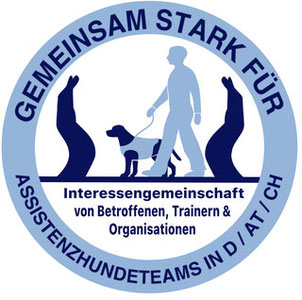
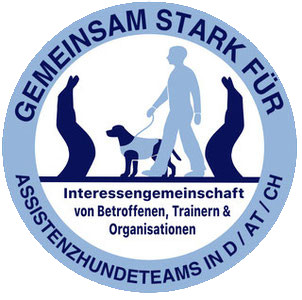
Release 1.0    :)

diff --git a/layouts/partials/blog-sidebar.html b/layouts/partials/blog-sidebar.html
@@ -26,15 +26,20 @@
     Ständige Weiterbildung ist für mich eine Selbstverständlichkeit.
     <br>
     <br>
-    <b>Amelie Schulz<br>Hundeschule Herz-AS<br>
-    Telefon: 05108-876 8 567
+    <b>Hundeschule Herz-AS</b><br>
+    Mail: <b>info@hundeschule-herz-as.com</b>   <br>
+    Telefon: <b>0177-9273213</b>
     <br>
-    Mail: hundeschule.herz.as@gmail.com
+    vom Veterinäramt nach §11 überprüft.
+
     <br>
     </b>
   </p>
-  <img src="/images/banner_vertical.png" class="sidebar-img" style="display: block;margin-left: auto;margin-right: auto;">
+
   <br>
   <br>
-  <img src="/images/assistenzhundeteams.jpg" class="sidebar-img" style="display: block;margin-left: auto;margin-right: auto;">
+  <img src="/images/assistenzhundeteams.png" class="sidebar-img" style="display: block;margin-left: auto;margin-right: auto;">
+  <br>
+  <br>
+  <img src="/images/zertifikat_hundetrainerin.png" class="sidebar-img" style="display: block;margin-left: auto;margin-right: auto;">
 </div>

diff --git a/assets/scss/templates/_assistenzhunde.scss b/assets/scss/templates/_assistenzhunde.scss
@@ -48,20 +48,33 @@
 }
 
 
+
 .linkgrid {
   display: grid;
   grid-template-columns: repeat(3, 1fr);
   column-gap: 10px;
   row-gap: 15px;
 }
+
+@media screen and (max-width: 700px) {
+  .linkgrid {
+    grid-template-columns: repeat(1, 1fr);
+  }
+}
+
 .griditem{
   min-height: 10vw;
   max-height: 15vw;
-  box-shadow: 0 0 0px #888;
   display:flex;
   flex-direction: column;
   justify-content: center;
 
+}
+@media screen and (max-width: 700px) {
+  .griditem {
+    min-height: 40vw;
+    max-height: 45vw;
+  }
 }
 
 .griditem a{

diff --git a/content/datenschutz/_index.md b/content/datenschutz/_index.md
@@ -4,19 +4,37 @@ draft: false
 ---
 
 
+<h1>Datenschutz&shy;erkl&auml;rung</h1>
+<h2>1. Datenschutz auf einen Blick</h2>
+<h3>Allgemeine Hinweise</h3> <p>Die folgenden Hinweise geben einen einfachen &Uuml;berblick dar&uuml;ber, was mit Ihren personenbezogenen Daten passiert, wenn Sie diese Website besuchen. Personenbezogene Daten sind alle Daten, mit denen Sie pers&ouml;nlich identifiziert werden k&ouml;nnen. Ausf&uuml;hrliche Informationen zum Thema Datenschutz entnehmen Sie unserer unter diesem Text aufgef&uuml;hrten Datenschutzerkl&auml;rung.</p>
+<h3>Datenerfassung auf dieser Website</h3> <h4>Wer ist verantwortlich f&uuml;r die Datenerfassung auf dieser Website?</h4> <p>Die Datenverarbeitung auf dieser Website erfolgt durch den Websitebetreiber. Dessen Kontaktdaten k&ouml;nnen Sie dem Abschnitt &bdquo;Hinweis zur Verantwortlichen Stelle&ldquo; in dieser Datenschutzerkl&auml;rung entnehmen.</p> <h4>Wie erfassen wir Ihre Daten?</h4> <p>Ihre Daten werden zum einen dadurch erhoben, dass Sie uns diese mitteilen. Hierbei kann es sich z.&nbsp;B. um Daten handeln, die Sie in ein Kontaktformular eingeben.</p> <p>Andere Daten werden automatisch oder nach Ihrer Einwilligung beim Besuch der Website durch unsere IT-Systeme erfasst. Das sind vor allem technische Daten (z.&nbsp;B. Internetbrowser, Betriebssystem oder Uhrzeit des Seitenaufrufs). Die Erfassung dieser Daten erfolgt automatisch, sobald Sie diese Website betreten.</p> <h4>Wof&uuml;r nutzen wir Ihre Daten?</h4> <p>Ein Teil der Daten wird erhoben, um eine fehlerfreie Bereitstellung der Website zu gew&auml;hrleisten. Andere Daten k&ouml;nnen zur Analyse Ihres Nutzerverhaltens verwendet werden.</p> <h4>Welche Rechte haben Sie bez&uuml;glich Ihrer Daten?</h4> <p>Sie haben jederzeit das Recht, unentgeltlich Auskunft &uuml;ber Herkunft, Empf&auml;nger und Zweck Ihrer gespeicherten personenbezogenen Daten zu erhalten. Sie haben au&szlig;erdem ein Recht, die Berichtigung oder L&ouml;schung dieser Daten zu verlangen. Wenn Sie eine Einwilligung zur Datenverarbeitung erteilt haben, k&ouml;nnen Sie diese Einwilligung jederzeit f&uuml;r die Zukunft widerrufen. Au&szlig;erdem haben Sie das Recht, unter bestimmten Umst&auml;nden die Einschr&auml;nkung der Verarbeitung Ihrer personenbezogenen Daten zu verlangen. Des Weiteren steht Ihnen ein Beschwerderecht bei der zust&auml;ndigen Aufsichtsbeh&ouml;rde zu.</p> <p>Hierzu sowie zu weiteren Fragen zum Thema Datenschutz k&ouml;nnen Sie sich jederzeit an uns wenden.</p>
+<h3>Analyse-Tools und Tools von Dritt&shy;anbietern</h3> <p>Beim Besuch dieser Website kann Ihr Surf-Verhalten statistisch ausgewertet werden. Das geschieht vor allem mit sogenannten Analyseprogrammen.</p> <p>Detaillierte Informationen zu diesen Analyseprogrammen finden Sie in der folgenden Datenschutzerkl&auml;rung.</p>
+<h2>2. Allgemeine Hinweise und Pflicht&shy;informationen</h2>
+<h3>Datenschutz</h3> <p>Die Betreiber dieser Seiten nehmen den Schutz Ihrer pers&ouml;nlichen Daten sehr ernst. Wir behandeln Ihre personenbezogenen Daten vertraulich und entsprechend den gesetzlichen Datenschutzvorschriften sowie dieser Datenschutzerkl&auml;rung.</p> <p>Wenn Sie diese Website benutzen, werden verschiedene personenbezogene Daten erhoben. Personenbezogene Daten sind Daten, mit denen Sie pers&ouml;nlich identifiziert werden k&ouml;nnen. Die vorliegende Datenschutzerkl&auml;rung erl&auml;utert, welche Daten wir erheben und wof&uuml;r wir sie nutzen. Sie erl&auml;utert auch, wie und zu welchem Zweck das geschieht.</p> <p>Wir weisen darauf hin, dass die Daten&uuml;bertragung im Internet (z.&nbsp;B. bei der Kommunikation per E-Mail) Sicherheitsl&uuml;cken aufweisen kann. Ein l&uuml;ckenloser Schutz der Daten vor dem Zugriff durch Dritte ist nicht m&ouml;glich.</p>
+<h3>Hinweis zur verantwortlichen Stelle</h3> <p>Die verantwortliche Stelle f&uuml;r die Datenverarbeitung auf dieser Website ist:
 
-Die im Vertrag angegebenen personenbezogenen Daten, die allein zum Zweck der Durchführung des entstehenden Vertragsverhältnisses notwendig und erforderlich sind, werden auf Grundlage gesetzlicher Berechtigung erhoben.
+Mail: **info@hundeschule-herz-as.com**
+<br>
+Telefon: **0177-9273213**
 
-Mit Unterschrift dieses Dokuments willigen Sie in die Verarbeitung und Nutzung Ihrer Daten zu folgenden Zwecken ein:
+Hundeschule Herz-AS<br>
+Im Loffenkamp 7<br>
+31832 Eldagsen<br>
+    <br>
+ <p>Verantwortliche Stelle ist die nat&uuml;rliche oder juristische Person, die allein oder gemeinsam mit anderen &uuml;ber die Zwecke und Mittel der Verarbeitung von personenbezogenen Daten (z.&nbsp;B. Namen, E-Mail-Adressen o. &Auml;.) entscheidet.</p>
 
-● Betreuung des Kunden sowie
-
-● Kontaktaufnahme per Mail, Telefon, Kurznachricht zur Terminabsprache und Information
-
-über Angebote
-
-Sie können jederzeit Auskunft über Ihre gespeicherten personenbezogen Daten erhalten, deren Berichtigung, Löschung oder Einschränkung der Verarbeitung verlangen, sowie Ihr Recht auf Datenübertragbarkeit geltend machen.
-
- 
-
-Sie können diese Einwilligung jederzeit widerrufen. Ein Widerruf hat zur Folge, dass Ihre Daten ab diesem Zeitpunkt zu oben genannten Zwecken nicht mehr verarbeitet werden. Für einen Widerruf wenden Sie sich bitte an die im Impressum angegebene Adresse.
+<h3>Speicherdauer</h3> <p>Soweit innerhalb dieser Datenschutzerkl&auml;rung keine speziellere Speicherdauer genannt wurde, verbleiben Ihre personenbezogenen Daten bei uns, bis der Zweck f&uuml;r die Datenverarbeitung entf&auml;llt. Wenn Sie ein berechtigtes L&ouml;schersuchen geltend machen oder eine Einwilligung zur Datenverarbeitung widerrufen, werden Ihre Daten gel&ouml;scht, sofern wir keine anderen rechtlich zul&auml;ssigen Gr&uuml;nde f&uuml;r die Speicherung Ihrer personenbezogenen Daten haben (z.&nbsp;B. steuer- oder handelsrechtliche Aufbewahrungsfristen); im letztgenannten Fall erfolgt die L&ouml;schung nach Fortfall dieser Gr&uuml;nde.</p>
+<h3>Allgemeine Hinweise zu den Rechtsgrundlagen der Datenverarbeitung auf dieser Website</h3> <p>Sofern Sie in die Datenverarbeitung eingewilligt haben, verarbeiten wir Ihre personenbezogenen Daten auf Grundlage von Art. 6 Abs. 1 lit. a DSGVO bzw. Art. 9 Abs. 2 lit. a DSGVO, sofern besondere Datenkategorien nach Art. 9 Abs. 1 DSGVO verarbeitet werden. Im Falle einer ausdr&uuml;cklichen Einwilligung in die &Uuml;bertragung personenbezogener Daten in Drittstaaten erfolgt die Datenverarbeitung au&szlig;erdem auf Grundlage von Art. 49 Abs. 1 lit. a DSGVO. Sofern Sie in die Speicherung von Cookies oder in den Zugriff auf Informationen in Ihr Endger&auml;t (z.&nbsp;B. via Device-Fingerprinting) eingewilligt haben, erfolgt die Datenverarbeitung zus&auml;tzlich auf Grundlage von &sect; 25 Abs. 1 TTDSG. Die Einwilligung ist jederzeit widerrufbar. Sind Ihre Daten zur Vertragserf&uuml;llung oder zur Durchf&uuml;hrung vorvertraglicher Ma&szlig;nahmen erforderlich, verarbeiten wir Ihre Daten auf Grundlage des Art. 6 Abs. 1 lit. b DSGVO. Des Weiteren verarbeiten wir Ihre Daten, sofern diese zur Erf&uuml;llung einer rechtlichen Verpflichtung erforderlich sind auf Grundlage von Art. 6 Abs. 1 lit. c DSGVO. Die Datenverarbeitung kann ferner auf Grundlage unseres berechtigten Interesses nach Art. 6 Abs. 1 lit. f DSGVO erfolgen. &Uuml;ber die jeweils im Einzelfall einschl&auml;gigen Rechtsgrundlagen wird in den folgenden Abs&auml;tzen dieser Datenschutzerkl&auml;rung informiert.</p>
+<h3>Hinweis zur Datenweitergabe in die USA und sonstige Drittstaaten</h3> <p>Wir verwenden unter anderem Tools von Unternehmen mit Sitz in den USA oder sonstigen datenschutzrechtlich nicht sicheren Drittstaaten. Wenn diese Tools aktiv sind, k&ouml;nnen Ihre personenbezogene Daten in diese Drittstaaten &uuml;bertragen und dort verarbeitet werden. Wir weisen darauf hin, dass in diesen L&auml;ndern kein mit der EU vergleichbares Datenschutzniveau garantiert werden kann. Beispielsweise sind US-Unternehmen dazu verpflichtet, personenbezogene Daten an Sicherheitsbeh&ouml;rden herauszugeben, ohne dass Sie als Betroffener hiergegen gerichtlich vorgehen k&ouml;nnten. Es kann daher nicht ausgeschlossen werden, dass US-Beh&ouml;rden (z.&nbsp;B. Geheimdienste) Ihre auf US-Servern befindlichen Daten zu &Uuml;berwachungszwecken verarbeiten, auswerten und dauerhaft speichern. Wir haben auf diese Verarbeitungst&auml;tigkeiten keinen Einfluss.</p><h3>Widerruf Ihrer Einwilligung zur Datenverarbeitung</h3> <p>Viele Datenverarbeitungsvorg&auml;nge sind nur mit Ihrer ausdr&uuml;cklichen Einwilligung m&ouml;glich. Sie k&ouml;nnen eine bereits erteilte Einwilligung jederzeit widerrufen. Die Rechtm&auml;&szlig;igkeit der bis zum Widerruf erfolgten Datenverarbeitung bleibt vom Widerruf unber&uuml;hrt.</p>
+<h3>Widerspruchsrecht gegen die Datenerhebung in besonderen F&auml;llen sowie gegen Direktwerbung (Art. 21 DSGVO)</h3> <p>WENN DIE DATENVERARBEITUNG AUF GRUNDLAGE VON ART. 6 ABS. 1 LIT. E ODER F DSGVO ERFOLGT, HABEN SIE JEDERZEIT DAS RECHT, AUS GR&Uuml;NDEN, DIE SICH AUS IHRER BESONDEREN SITUATION ERGEBEN, GEGEN DIE VERARBEITUNG IHRER PERSONENBEZOGENEN DATEN WIDERSPRUCH EINZULEGEN; DIES GILT AUCH F&Uuml;R EIN AUF DIESE BESTIMMUNGEN GEST&Uuml;TZTES PROFILING. DIE JEWEILIGE RECHTSGRUNDLAGE, AUF DENEN EINE VERARBEITUNG BERUHT, ENTNEHMEN SIE DIESER DATENSCHUTZERKL&Auml;RUNG. WENN SIE WIDERSPRUCH EINLEGEN, WERDEN WIR IHRE BETROFFENEN PERSONENBEZOGENEN DATEN NICHT MEHR VERARBEITEN, ES SEI DENN, WIR K&Ouml;NNEN ZWINGENDE SCHUTZW&Uuml;RDIGE GR&Uuml;NDE F&Uuml;R DIE VERARBEITUNG NACHWEISEN, DIE IHRE INTERESSEN, RECHTE UND FREIHEITEN &Uuml;BERWIEGEN ODER DIE VERARBEITUNG DIENT DER GELTENDMACHUNG, AUS&Uuml;BUNG ODER VERTEIDIGUNG VON RECHTSANSPR&Uuml;CHEN (WIDERSPRUCH NACH ART. 21 ABS. 1 DSGVO).</p> <p>WERDEN IHRE PERSONENBEZOGENEN DATEN VERARBEITET, UM DIREKTWERBUNG ZU BETREIBEN, SO HABEN SIE DAS RECHT, JEDERZEIT WIDERSPRUCH GEGEN DIE VERARBEITUNG SIE BETREFFENDER PERSONENBEZOGENER DATEN ZUM ZWECKE DERARTIGER WERBUNG EINZULEGEN; DIES GILT AUCH F&Uuml;R DAS PROFILING, SOWEIT ES MIT SOLCHER DIREKTWERBUNG IN VERBINDUNG STEHT. WENN SIE WIDERSPRECHEN, WERDEN IHRE PERSONENBEZOGENEN DATEN ANSCHLIESSEND NICHT MEHR ZUM ZWECKE DER DIREKTWERBUNG VERWENDET (WIDERSPRUCH NACH ART. 21 ABS. 2 DSGVO).</p>
+<h3>Beschwerde&shy;recht bei der zust&auml;ndigen Aufsichts&shy;beh&ouml;rde</h3> <p>Im Falle von Verst&ouml;&szlig;en gegen die DSGVO steht den Betroffenen ein Beschwerderecht bei einer Aufsichtsbeh&ouml;rde, insbesondere in dem Mitgliedstaat ihres gew&ouml;hnlichen Aufenthalts, ihres Arbeitsplatzes oder des Orts des mutma&szlig;lichen Versto&szlig;es zu. Das Beschwerderecht besteht unbeschadet anderweitiger verwaltungsrechtlicher oder gerichtlicher Rechtsbehelfe.</p>
+<h3>Recht auf Daten&shy;&uuml;bertrag&shy;barkeit</h3> <p>Sie haben das Recht, Daten, die wir auf Grundlage Ihrer Einwilligung oder in Erf&uuml;llung eines Vertrags automatisiert verarbeiten, an sich oder an einen Dritten in einem g&auml;ngigen, maschinenlesbaren Format aush&auml;ndigen zu lassen. Sofern Sie die direkte &Uuml;bertragung der Daten an einen anderen Verantwortlichen verlangen, erfolgt dies nur, soweit es technisch machbar ist.</p>
+<h3>Auskunft, L&ouml;schung und Berichtigung</h3> <p>Sie haben im Rahmen der geltenden gesetzlichen Bestimmungen jederzeit das Recht auf unentgeltliche Auskunft &uuml;ber Ihre gespeicherten personenbezogenen Daten, deren Herkunft und Empf&auml;nger und den Zweck der Datenverarbeitung und ggf. ein Recht auf Berichtigung oder L&ouml;schung dieser Daten. Hierzu sowie zu weiteren Fragen zum Thema personenbezogene Daten k&ouml;nnen Sie sich jederzeit an uns wenden.</p>
+<h3>Recht auf Einschr&auml;nkung der Verarbeitung</h3> <p>Sie haben das Recht, die Einschr&auml;nkung der Verarbeitung Ihrer personenbezogenen Daten zu verlangen. Hierzu k&ouml;nnen Sie sich jederzeit an uns wenden. Das Recht auf Einschr&auml;nkung der Verarbeitung besteht in folgenden F&auml;llen:</p> <ul> <li>Wenn Sie die Richtigkeit Ihrer bei uns gespeicherten personenbezogenen Daten bestreiten, ben&ouml;tigen wir in der Regel Zeit, um dies zu &uuml;berpr&uuml;fen. F&uuml;r die Dauer der Pr&uuml;fung haben Sie das Recht, die Einschr&auml;nkung der Verarbeitung Ihrer personenbezogenen Daten zu verlangen.</li> <li>Wenn die Verarbeitung Ihrer personenbezogenen Daten unrechtm&auml;&szlig;ig geschah/geschieht, k&ouml;nnen Sie statt der L&ouml;schung die Einschr&auml;nkung der Datenverarbeitung verlangen.</li> <li>Wenn wir Ihre personenbezogenen Daten nicht mehr ben&ouml;tigen, Sie sie jedoch zur Aus&uuml;bung, Verteidigung oder Geltendmachung von Rechtsanspr&uuml;chen ben&ouml;tigen, haben Sie das Recht, statt der L&ouml;schung die Einschr&auml;nkung der Verarbeitung Ihrer personenbezogenen Daten zu verlangen.</li> <li>Wenn Sie einen Widerspruch nach Art. 21 Abs. 1 DSGVO eingelegt haben, muss eine Abw&auml;gung zwischen Ihren und unseren Interessen vorgenommen werden. Solange noch nicht feststeht, wessen Interessen &uuml;berwiegen, haben Sie das Recht, die Einschr&auml;nkung der Verarbeitung Ihrer personenbezogenen Daten zu verlangen.</li> </ul> <p>Wenn Sie die Verarbeitung Ihrer personenbezogenen Daten eingeschr&auml;nkt haben, d&uuml;rfen diese Daten &ndash; von ihrer Speicherung abgesehen &ndash; nur mit Ihrer Einwilligung oder zur Geltendmachung, Aus&uuml;bung oder Verteidigung von Rechtsanspr&uuml;chen oder zum Schutz der Rechte einer anderen nat&uuml;rlichen oder juristischen Person oder aus Gr&uuml;nden eines wichtigen &ouml;ffentlichen Interesses der Europ&auml;ischen Union oder eines Mitgliedstaats verarbeitet werden.</p>
+<h2>3. Datenerfassung auf dieser Website</h2>
+<h3>Cookies</h3> <p>Unsere Internetseiten verwenden so genannte &bdquo;Cookies&ldquo;. Cookies sind kleine Datenpakete und richten auf Ihrem Endger&auml;t keinen Schaden an. Sie werden entweder vor&uuml;bergehend f&uuml;r die Dauer einer Sitzung (Session-Cookies) oder dauerhaft (permanente Cookies) auf Ihrem Endger&auml;t gespeichert. Session-Cookies werden nach Ende Ihres Besuchs automatisch gel&ouml;scht. Permanente Cookies bleiben auf Ihrem Endger&auml;t gespeichert, bis Sie diese selbst l&ouml;schen&nbsp;oder eine automatische L&ouml;schung durch Ihren Webbrowser erfolgt.</p> <p>Teilweise k&ouml;nnen auch Cookies von Drittunternehmen auf Ihrem Endger&auml;t gespeichert werden, wenn Sie unsere Seite betreten (Third-Party-Cookies). Diese erm&ouml;glichen uns oder Ihnen die Nutzung bestimmter Dienstleistungen des Drittunternehmens (z.&nbsp;B. Cookies zur Abwicklung von Zahlungsdienstleistungen).</p> <p>Cookies haben verschiedene Funktionen. Zahlreiche Cookies sind technisch notwendig, da bestimmte Websitefunktionen ohne diese nicht funktionieren w&uuml;rden (z.&nbsp;B. die Warenkorbfunktion oder die Anzeige von Videos). Andere Cookies dienen dazu, das Nutzerverhalten auszuwerten&nbsp;oder Werbung anzuzeigen.</p> <p>Cookies, die zur Durchf&uuml;hrung des elektronischen Kommunikationsvorgangs, zur Bereitstellung bestimmter, von Ihnen erw&uuml;nschter Funktionen (z.&nbsp;B. f&uuml;r die Warenkorbfunktion) oder zur Optimierung der Website (z.&nbsp;B. Cookies zur Messung des Webpublikums) erforderlich sind (notwendige Cookies), werden auf Grundlage von Art. 6 Abs. 1 lit. f DSGVO gespeichert, sofern keine andere Rechtsgrundlage angegeben wird. Der Websitebetreiber hat ein berechtigtes Interesse an der Speicherung von notwendigen Cookies zur technisch fehlerfreien und optimierten Bereitstellung seiner Dienste. Sofern eine Einwilligung zur Speicherung von Cookies und vergleichbaren Wiedererkennungstechnologien abgefragt wurde, erfolgt die Verarbeitung ausschlie&szlig;lich auf Grundlage dieser Einwilligung (Art. 6 Abs. 1 lit. a DSGVO und &sect; 25 Abs. 1 TTDSG); die Einwilligung ist jederzeit widerrufbar.</p> <p>Sie k&ouml;nnen Ihren Browser so einstellen, dass Sie &uuml;ber das Setzen von Cookies informiert werden und Cookies nur im Einzelfall erlauben, die Annahme von Cookies f&uuml;r bestimmte F&auml;lle oder generell ausschlie&szlig;en sowie das automatische L&ouml;schen der Cookies beim Schlie&szlig;en des Browsers aktivieren. Bei der Deaktivierung von Cookies kann die Funktionalit&auml;t dieser Website eingeschr&auml;nkt sein.</p> <p>Soweit Cookies von Drittunternehmen oder zu Analysezwecken eingesetzt werden, werden wir Sie hier&uuml;ber im Rahmen dieser Datenschutzerkl&auml;rung gesondert informieren und ggf. eine Einwilligung abfragen.</p>
+<h3>Kontaktformular</h3> <p>Wenn Sie uns per Kontaktformular Anfragen zukommen lassen, werden Ihre Angaben aus dem Anfrageformular inklusive der von Ihnen dort angegebenen Kontaktdaten zwecks Bearbeitung der Anfrage und f&uuml;r den Fall von Anschlussfragen bei uns gespeichert. Diese Daten geben wir nicht ohne Ihre Einwilligung weiter.</p> <p>Die Verarbeitung dieser Daten erfolgt auf Grundlage von Art. 6 Abs. 1 lit. b DSGVO, sofern Ihre Anfrage mit der Erf&uuml;llung eines Vertrags zusammenh&auml;ngt oder zur Durchf&uuml;hrung vorvertraglicher Ma&szlig;nahmen erforderlich ist. In allen &uuml;brigen F&auml;llen beruht die Verarbeitung auf unserem berechtigten Interesse an der effektiven Bearbeitung der an uns gerichteten Anfragen (Art. 6 Abs. 1 lit. f DSGVO) oder auf Ihrer Einwilligung (Art. 6 Abs. 1 lit. a DSGVO) sofern diese abgefragt wurde; die Einwilligung ist jederzeit widerrufbar.</p> <p>Die von Ihnen im Kontaktformular eingegebenen Daten verbleiben bei uns, bis Sie uns zur L&ouml;schung auffordern, Ihre Einwilligung zur Speicherung widerrufen oder der Zweck f&uuml;r die Datenspeicherung entf&auml;llt (z.&nbsp;B. nach abgeschlossener Bearbeitung Ihrer Anfrage). Zwingende gesetzliche Bestimmungen &ndash; insbesondere Aufbewahrungsfristen &ndash; bleiben unber&uuml;hrt.</p>
+<h3>Anfrage per E-Mail, Telefon oder Telefax</h3> <p>Wenn Sie uns per E-Mail, Telefon oder Telefax kontaktieren, wird Ihre Anfrage inklusive aller daraus hervorgehenden personenbezogenen Daten (Name, Anfrage) zum Zwecke der Bearbeitung Ihres Anliegens bei uns gespeichert und verarbeitet. Diese Daten geben wir nicht ohne Ihre Einwilligung weiter.</p> <p>Die Verarbeitung dieser Daten erfolgt auf Grundlage von Art. 6 Abs. 1 lit. b DSGVO, sofern Ihre Anfrage mit der Erf&uuml;llung eines Vertrags zusammenh&auml;ngt oder zur Durchf&uuml;hrung vorvertraglicher Ma&szlig;nahmen erforderlich ist. In allen &uuml;brigen F&auml;llen beruht die Verarbeitung auf unserem berechtigten Interesse an der effektiven Bearbeitung der an uns gerichteten Anfragen (Art. 6 Abs. 1 lit. f DSGVO) oder auf Ihrer Einwilligung (Art. 6 Abs. 1 lit. a DSGVO) sofern diese abgefragt wurde; die Einwilligung ist jederzeit widerrufbar.</p> <p>Die von Ihnen an uns per Kontaktanfragen &uuml;bersandten Daten verbleiben bei uns, bis Sie uns zur L&ouml;schung auffordern, Ihre Einwilligung zur Speicherung widerrufen oder der Zweck f&uuml;r die Datenspeicherung entf&auml;llt (z.&nbsp;B. nach abgeschlossener Bearbeitung Ihres Anliegens). Zwingende gesetzliche Bestimmungen &ndash; insbesondere gesetzliche Aufbewahrungsfristen &ndash; bleiben unber&uuml;hrt.</p>
+<h2>4. Plugins und Tools</h2>
+<h3>Google Fonts</h3> <p>Diese Seite nutzt zur einheitlichen Darstellung von Schriftarten so genannte Google Fonts, die von Google bereitgestellt werden. Beim Aufruf einer Seite l&auml;dt Ihr Browser die ben&ouml;tigten Fonts in ihren Browsercache, um Texte und Schriftarten korrekt anzuzeigen.</p> <p>Zu diesem Zweck muss der von Ihnen verwendete Browser Verbindung zu den Servern von Google aufnehmen. Hierdurch erlangt Google Kenntnis dar&uuml;ber, dass &uuml;ber Ihre IP-Adresse diese Website aufgerufen wurde. Die Nutzung von Google Fonts erfolgt auf Grundlage von Art. 6 Abs. 1 lit. f DSGVO. Der Websitebetreiber hat ein berechtigtes Interesse an der einheitlichen Darstellung des Schriftbildes auf seiner Website. Sofern eine entsprechende Einwilligung abgefragt wurde, erfolgt die Verarbeitung ausschlie&szlig;lich auf Grundlage von Art. 6 Abs. 1 lit. a DSGVO und &sect; 25 Abs. 1 TTDSG, soweit die Einwilligung die Speicherung von Cookies oder den Zugriff auf Informationen im Endger&auml;t des Nutzers (z.&nbsp;B. Device-Fingerprinting) im Sinne des TTDSG umfasst. Die Einwilligung ist jederzeit widerrufbar.</p> <p>Wenn Ihr Browser Google Fonts nicht unterst&uuml;tzt, wird eine Standardschrift von Ihrem Computer genutzt.</p> <p>Weitere Informationen zu Google Fonts finden Sie unter <a href="https://developers.google.com/fonts/faq" target="_blank" rel="noopener noreferrer">https://developers.google.com/fonts/faq</a> und in der Datenschutzerkl&auml;rung von Google: <a href="https://policies.google.com/privacy?hl=de" target="_blank" rel="noopener noreferrer">https://policies.google.com/privacy?hl=de</a>.</p>
+<h3>Google Maps</h3> <p>Diese Seite nutzt den Kartendienst Google Maps. Anbieter ist die Google Ireland Limited (&bdquo;Google&ldquo;), Gordon House, Barrow Street, Dublin 4, Irland.</p> <p>Zur Nutzung der Funktionen von Google Maps ist es notwendig, Ihre IP-Adresse zu speichern. Diese Informationen werden in der Regel an einen Server von Google in den USA &uuml;bertragen und dort gespeichert. Der Anbieter dieser Seite hat keinen Einfluss auf diese Daten&uuml;bertragung. Wenn Google Maps aktiviert ist, kann Google zum Zwecke der einheitlichen Darstellung der Schriftarten Google Fonts verwenden. Beim Aufruf von Google Maps l&auml;dt Ihr Browser die ben&ouml;tigten Web Fonts in ihren Browsercache, um Texte und Schriftarten korrekt anzuzeigen.</p> <p>Die Nutzung von Google Maps erfolgt im Interesse einer ansprechenden Darstellung unserer Online-Angebote und an einer leichten Auffindbarkeit der von uns auf der Website angegebenen Orte. Dies stellt ein berechtigtes Interesse im Sinne von Art. 6 Abs. 1 lit. f DSGVO dar. Sofern eine entsprechende Einwilligung abgefragt wurde, erfolgt die Verarbeitung ausschlie&szlig;lich auf Grundlage von Art. 6 Abs. 1 lit. a DSGVO und &sect; 25 Abs. 1 TTDSG, soweit die Einwilligung die Speicherung von Cookies oder den Zugriff auf Informationen im Endger&auml;t des Nutzers (z.&nbsp;B. Device-Fingerprinting) im Sinne des TTDSG umfasst. Die Einwilligung ist jederzeit widerrufbar.</p> <p>Die Daten&uuml;bertragung in die USA wird auf die Standardvertragsklauseln der EU-Kommission gest&uuml;tzt. Details finden Sie hier: <a href="https://privacy.google.com/businesses/gdprcontrollerterms/" target="_blank" rel="noopener noreferrer">https://privacy.google.com/businesses/gdprcontrollerterms/</a> und <a href="https://privacy.google.com/businesses/gdprcontrollerterms/sccs/" target="_blank" rel="noopener noreferrer">https://privacy.google.com/businesses/gdprcontrollerterms/sccs/</a>.</p> <p>Mehr Informationen zum Umgang mit Nutzerdaten finden Sie in der Datenschutzerkl&auml;rung von Google: <a href="https://policies.google.com/privacy?hl=de" target="_blank" rel="noopener noreferrer">https://policies.google.com/privacy?hl=de</a>.</p>

diff --git a/content/links/_index.md b/content/links/_index.md
@@ -3,7 +3,7 @@ title: "Links"
 draft: false
 ---
 <div class="linkgrid">
-    <figure class="griditem"><a target="_blank" rel="noopener noreferrer" href="https://www.assistenzhundeteams.com/"><img src="/images/assistenzhundeteams.jpg"/></a><figcaption>Gemeinsam stark für Assistenzhundeteams in D / AT / CH</figcaption></figure>
+    <figure class="griditem"><a target="_blank" rel="noopener noreferrer" href="https://www.assistenzhundeteams.com/"><img src="/images/assistenzhundeteams.png"/></a><figcaption>Gemeinsam stark für Assistenzhundeteams in D / AT / CH</figcaption></figure>
     <figure class="griditem"><a target="_blank" rel="noopener noreferrer" href="https://ezfg.de/"><img style="background: linear-gradient(0deg,#002966 0%,#011431 100%);" src="/images/EZFG_Logo_inv.svg"/></a><figcaption>EZFG</figcaption></figure>
     <figure class="griditem"><a target="_blank" rel="noopener noreferrer" href="https://reico-vital.com/de/"><img src="/images/reico.png"/></a><figcaption>Hundefutter von Reico</figcaption></figure>
     <figure class="griditem"><a target="_blank" rel="noopener noreferrer" href="https://www.narkolepsie-assistenzhund.com/"><img src="/images/narkolepsie_assistenzhund_logo.jpg"/></a><figcaption>Narkolepsie Assistenzhund</figcaption></figure>

diff --git a/content/impressum/_index.md b/content/impressum/_index.md
@@ -10,3 +10,23 @@ Hundeschule Herz-AS<br>
 Im Loffenkamp 7,<br>
 31832 Eldagsen<br>
 
+<br>
+
+Gewerbemeldung nach §15 Abs.1 GewO in der Stadt Gehrden 03241006
+
+<br>
+
+Hundeerzieherin und Verhaltensberaterin des BHV mit Zertifikat der IHK Potsdam
+vom Veterinäramt Hannover Region nach §11 überprüft.
+<br>
+
+Geschäftsführerin: Amelie Schulz
+St.Nr. 23/142/00408
+<br>
+
+Ich (Hundeschule Herz-AS) bin freiwillig bereit, an dem Streitbeilegungsverfahren vor einer  Verbraucherstreitschlichtungsstelle teilzunehmen. 
+Sie haben die Möglichkeit, Beschwerden an die Online Streitbeilegungsplattform der Europäischen Kommission unter http://ec.europa.eu/odr zu richten.
+
+
+
+

diff --git a/content/Assistenzhunde/_index.md b/content/Assistenzhunde/_index.md
@@ -3,6 +3,10 @@ title: "Assistenzhunde"
 draft: false
 type: "post"
 ---
+
+<a class="btn btn-main" style="margin:0" target="_blank" rel="noopener noreferrer" href="https://www.bmas.de/DE/Service/Gesetze-und-Gesetzesvorhaben/assistenzhundeverordnung.html">Assistenzhundeverordnung</a>
+***
+
 Ich biete zwei Varianten der Ausbildung an:
 1. Den vorhandenen Hund zusammen ausbilden 
 2. Wir suchen gemeinsam einen Welpen, Junghund oder erwachsenen Hund aus.  

diff --git a/content/preise/_index.md b/content/preise/_index.md
@@ -16,7 +16,7 @@ type: "post"
 | **Hundetraining**<br>| 1h | 60€ |
 | **Welpentraining**  <br>| 1h      |   60€ |
 
-### <br>Online Hunde Training
+### <br>Online Hunde-Trainingspaket
 |               | Dauer         | Preis  |
 | ------------- |:-------------:| -----:|
 | **Grundlagen 1** <br>für Welpen und jedes Alter  | 8h | 160€ |
